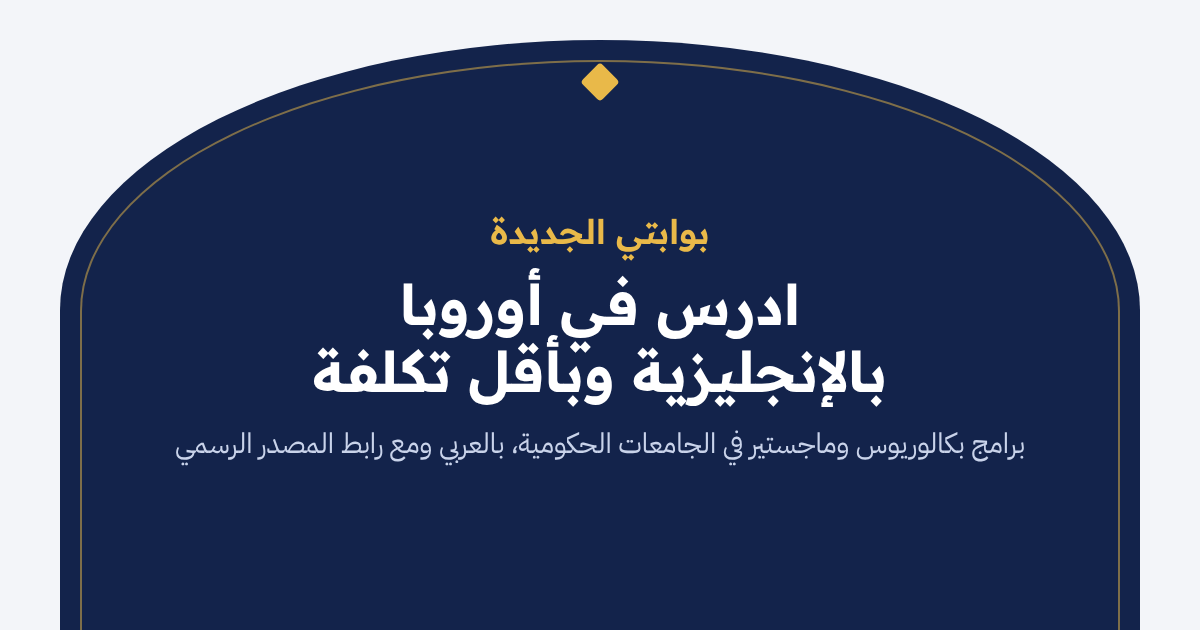
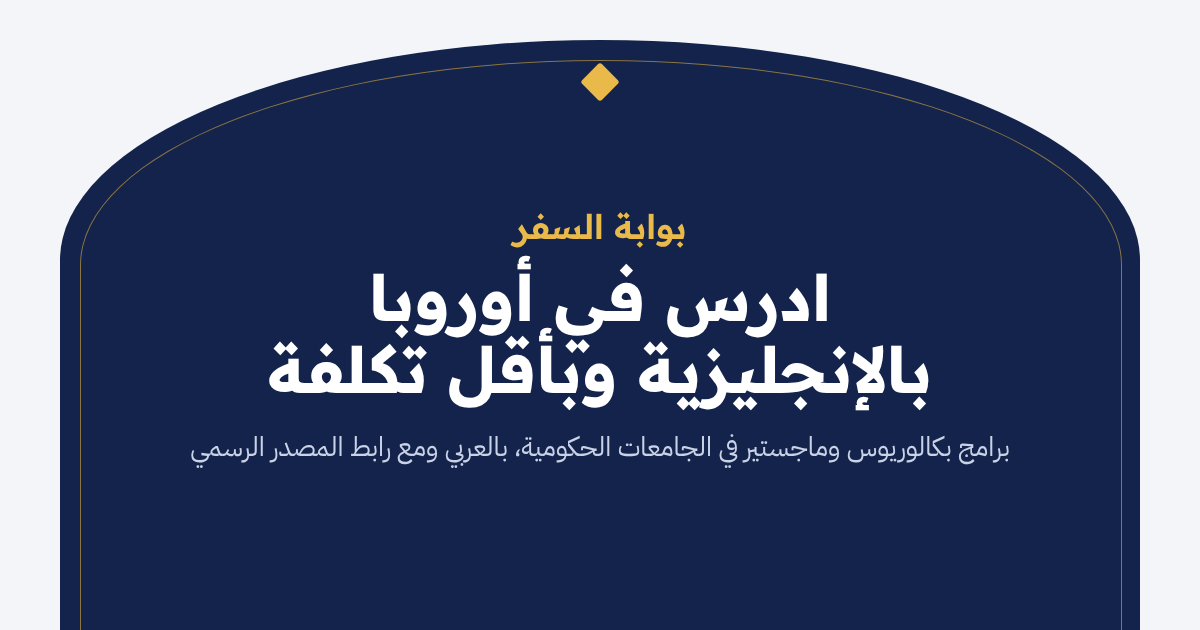
Rename the site to Bawabat Alsafar (بوابة السفر) on bawabatalsafar.com: brand, titles, links, app name, link-preview images, assistant prompts; offline page in MSA
Claude-Session: https://claude.ai/code/session_01VQ4j9VqPLdD4NFqzJinRwx

diff --git a/lib/i18n.js b/lib/i18n.js
@@ -6,10 +6,10 @@ export const T = {
   ar: {
     dir: "rtl",
     base: "",
-    brand: "بوابتي الجديدة",
+    brand: "بوابة السفر",
     beta: "نسخة تجريبية",
     switchLabel: "English",
-    title: "بوابتي الجديدة | الدراسة في أوروبا بالعربي",
+    title: "بوابة السفر | الدراسة في أوروبا بالعربي",
     description: "نرتب لك المعلومات الرسمية عن دراسة البكالوريوس والماجستير في أوروبا باللغة العربية.",
     footer:
       "هذه الخدمة لا تبيع المعلومات ولا تقدم استشارة قانونية أو هجرة. نحن نرتب المعلومات المنشورة على المواقع الرسمية للجامعات والجهات الحكومية باللغة العربية، مع رابط المصدر لكل معلومة. تأكد دائماً من المصدر الرسمي قبل اتخاذ أي قرار.",
@@ -47,7 +47,7 @@ export const T = {
     city: "المدينة:",
     myLink: "قائمتي",
     my: {
-      metaTitle: "قائمتي ومواعيدي | بوابتي الجديدة",
+      metaTitle: "قائمتي ومواعيدي | بوابة السفر",
       title: "قائمتي ومواعيد التقديم",
       lead: "البرامج والمنح التي حفظتها، مرتبة حسب أقرب موعد. أضفها إلى تقويم جوالك ليصلك تنبيه قبل الموعد بأسبوعين وقبله بثلاثة أيام.",
       save: "☆ احفظ في قائمتي",
@@ -80,7 +80,7 @@ export const T = {
     reportBtn: "وجدت خطأ؟ أبلغنا",
     reportNote: "إذا تغيّرت الرسوم أو الموعد أو أي شرط على الموقع الرسمي، أخبرنا وسنصحح المعلومة.",
     sch: {
-      metaTitle: "منح دراسية ممولة بالكامل للعرب في أوروبا | بوابتي الجديدة",
+      metaTitle: "منح دراسية ممولة بالكامل للعرب في أوروبا | بوابة السفر",
       title: "منح ممولة بالكامل للطلاب العرب",
       lead: "منح حكومية وأوروبية وجامعية للبكالوريوس والماجستير في الدول التي نغطيها. اخترنا فقط المنح التي تدفع الرسوم الدراسية وتعطي مبلغاً شهرياً للمعيشة. اختر جنسيتك لترى ما يناسبك.",
       scamTitle: "احذر من الاحتيال",
@@ -132,11 +132,11 @@ export const T = {
     },
     contactLink: "تواصل معنا",
     contact: {
-      metaTitle: "تواصل معنا | بوابتي الجديدة",
+      metaTitle: "تواصل معنا | بوابة السفر",
       title: "تواصل معنا",
       lead: "لديك سؤال عن الموقع، أو لاحظت معلومة تحتاج إلى تصحيح، أو تريد الإعلان معنا؟ راسلنا على البريد الإلكتروني.",
       button: "أرسل لنا بريداً إلكترونياً",
-      subject: "رسالة من موقع بوابتي الجديدة",
+      subject: "رسالة من موقع بوابة السفر",
       orCopy: "أو انسخ العنوان:",
       topicsTitle: "يمكنك مراسلتنا بخصوص",
       topics: [
@@ -210,10 +210,10 @@ export const T = {
   en: {
     dir: "ltr",
     base: "/en",
-    brand: "MyNewGate",
+    brand: "Bawabat Alsafar",
     beta: "Beta",
     switchLabel: "العربية",
-    title: "MyNewGate | Study in Europe, made clear",
+    title: "Bawabat Alsafar | Study in Europe, made clear",
     description: "Official information about English-taught bachelor's and master's programmes in Europe, organised in one place.",
     footer:
       "This service does not sell information and does not give legal or immigration advice. We organise information published on official university and government websites, with a source link for every item. Always check the official source before making any decision.",
@@ -251,7 +251,7 @@ export const T = {
     city: "City:",
     myLink: "My list",
     my: {
-      metaTitle: "My list and deadlines | MyNewGate",
+      metaTitle: "My list and deadlines | Bawabat Alsafar",
       title: "My list and application deadlines",
       lead: "The programmes and scholarships you saved, soonest deadline first. Add them to your phone calendar to get a reminder two weeks and three days before.",
       save: "☆ Save to my list",
@@ -284,7 +284,7 @@ export const T = {
     reportBtn: "Found an error? Tell us",
     reportNote: "If a fee, deadline or requirement changed on the official website, tell us and we will fix it.",
     sch: {
-      metaTitle: "Fully funded scholarships in Europe for Arab students | MyNewGate",
+      metaTitle: "Fully funded scholarships in Europe for Arab students | Bawabat Alsafar",
       title: "Fully funded scholarships for Arab students",
       lead: "Government, EU and university scholarships for bachelor's and master's study in the countries we cover. We only list scholarships that pay tuition and give a monthly living allowance. Choose your nationality to see what fits you.",
       scamTitle: "Watch out for scams",
@@ -336,11 +336,11 @@ export const T = {
     },
     contactLink: "Contact us",
     contact: {
-      metaTitle: "Contact us | MyNewGate",
+      metaTitle: "Contact us | Bawabat Alsafar",
       title: "Contact us",
       lead: "Have a question about the site, spotted information that needs correcting, or want to advertise with us? Email us.",
       button: "Send us an email",
-      subject: "Message from the MyNewGate website",
+      subject: "Message from the Bawabat Alsafar website",
       orCopy: "Or copy the address:",
       topicsTitle: "You can write to us about",
       topics: [

diff --git a/components/Privacy.js b/components/Privacy.js
@@ -4,11 +4,11 @@ export const PRIVACY_UPDATED = "2026-11-16";
 
 const S = {
   ar: {
-    meta: "سياسة الخصوصية | بوابتي الجديدة",
+    meta: "سياسة الخصوصية | بوابة السفر",
     title: "سياسة الخصوصية",
     updated: "آخر تحديث:",
     sections: [
-      ["من نحن", "بوابتي الجديدة (MyNewGate) موقع يرتب المعلومات الرسمية عن الدراسة في أوروبا باللغة العربية، ويتبع لعلامة «مع حاتم». للتواصل في أي شيء يخص بياناتك: business@withhatem.com"],
+      ["من نحن", "بوابة السفر (Bawabat Alsafar) موقع يرتب المعلومات الرسمية عن الدراسة في أوروبا باللغة العربية، ويتبع لعلامة «مع حاتم». للتواصل في أي شيء يخص بياناتك: business@withhatem.com"],
       ["ما الذي لا نجمعه", "لا تحتاج إلى حساب لاستخدام الموقع، فالحساب اختياري. الأسئلة التي تجيب عنها للبحث عن البرامج لا تُرسل إلى أي خادم. لا نستخدم أدوات تتبع إعلانية، ولا نضع ملفات تعريف الارتباط (الكوكيز) إلا كوكيز الدخول الضرورية إذا سجّلت الدخول بنفسك، وتجد تفاصيلها في فقرة «الحساب»."],
       ["إحصاءات الزيارات", "نستخدم Vercel Web Analytics لنعرف عدد الزيارات والصفحات الأكثر قراءة. لا تضع أي كوكيز ولا تحفظ بيانات تعرّف بك، وتميّز الزائر ببصمة مؤقتة محسوبة من الطلب تتغير كل يوم، فلا يمكن تتبعك بين الأيام أو بين المواقع. نرى أرقاماً مجمعة فقط، مثل عدد الزيارات والدولة ونوع الجهاز."],
       ["قائمتي", "البرامج والمنح التي تحفظها في «قائمتي» محفوظة في متصفحك على جهازك. إذا لم تسجّل الدخول، لا تُرسل القائمة إلينا أبداً. إذا سجّلت الدخول، تُحفظ نسخة منها في حسابك لتظهر على كل أجهزتك. رابط القائمة الذي تنسخه يحمل أرقام البرامج فقط، ولا يُرسل إلينا. تستطيع حذف القائمة بحذف العناصر منها أو بمسح بيانات المتصفح، وتُحذف نسختها من حسابك مع حذف الحساب."],
@@ -26,11 +26,11 @@ const S = {
     ],
   },
   en: {
-    meta: "Privacy policy | MyNewGate",
+    meta: "Privacy policy | Bawabat Alsafar",
     title: "Privacy policy",
     updated: "Last updated:",
     sections: [
-      ["Who we are", "MyNewGate (بوابتي الجديدة) organises official information about studying in Europe in Arabic. It is part of the \"With Hatem\" brand. For anything about your data, contact business@withhatem.com"],
+      ["Who we are", "Bawabat Alsafar (بوابة السفر) organises official information about studying in Europe in Arabic. It is part of the \"With Hatem\" brand. For anything about your data, contact business@withhatem.com"],
       ["What we don't collect", "You don't need an account to use the site; accounts are optional. The answers you give in the programme finder are not sent to any server. We don't use advertising trackers, and we set no cookies except the essential sign-in cookies if you choose to sign in, described under \"Accounts\"."],
       ["Visit statistics", "We use Vercel Web Analytics to see how many visits we get and which pages are read most. It sets no cookies and stores no data that identifies you; it tells visitors apart with a temporary hash of the request that resets every day, so you cannot be tracked across days or across websites. We only see aggregated figures such as visit counts, country and device type."],
       ["My list", "Programmes and scholarships you save to \"My list\" are stored in your browser on your device. If you are not signed in, the list is never sent to us. If you sign in, a copy is kept in your account so it shows on all your devices. The list link you copy only holds programme numbers and is not sent to us. You can delete the list by removing items or clearing your browser data, and the copy in your account is deleted with the account."],

diff --git a/components/MyList.js b/components/MyList.js
@@ -43,7 +43,7 @@ function ics(list, lang) {
       "BEGIN:VEVENT", `UID:${it.k}-${day}@mynewgate`, `DTSTAMP:${stamp}`,
       `DTSTART;VALUE=DATE:${day}`, `DTEND;VALUE=DATE:${end.toISOString().slice(0, 10).replace(/-/g, "")}`,
       `SUMMARY:${esc(`${t.icsTitle}: ${it.title}`)}`,
-      `DESCRIPTION:${esc(`${it.sub}\n${it.text}\n${d.est ? t.estNote + "\n" : ""}https://mynewgate.vercel.app${it.href}`)}`,
+      `DESCRIPTION:${esc(`${it.sub}\n${it.text}\n${d.est ? t.estNote + "\n" : ""}https://bawabatalsafar.com${it.href}`)}`,
       "BEGIN:VALARM", "ACTION:DISPLAY", `DESCRIPTION:${esc(it.title)}`, "TRIGGER:-P14D", "END:VALARM",
       "BEGIN:VALARM", "ACTION:DISPLAY", `DESCRIPTION:${esc(it.title)}`, "TRIGGER:-P3D", "END:VALARM",
       "END:VEVENT",
@@ -60,7 +60,7 @@ function ics(list, lang) {
     out.push(cur);
     return out.join("\r\n");
   };
-  return ["BEGIN:VCALENDAR", "VERSION:2.0", "PRODID:-//MyNewGate//Deadlines//EN", "CALSCALE:GREGORIAN", ...ev, "END:VCALENDAR"].join("\r\n").split("\r\n").map(fold).join("\r\n");
+  return ["BEGIN:VCALENDAR", "VERSION:2.0", "PRODID:-//BawabatAlsafar//Deadlines//EN", "CALSCALE:GREGORIAN", ...ev, "END:VCALENDAR"].join("\r\n").split("\r\n").map(fold).join("\r\n");
 }
 function download(list, lang, name) {
   const blob = new Blob([ics(list, lang)], { type: "text/calendar;charset=utf-8" });
@@ -130,7 +130,7 @@ export default function MyList({ lang }) {
           {withDates.length > 0 && (
             <div className="cal-box">
               <p>{m.calNote}</p>
-              <button className="btn gold small" onClick={() => download(withDates, lang, "mynewgate-deadlines.ics")}>{m.downloadAll}</button>
+              <button className="btn gold small" onClick={() => download(withDates, lang, "bawabatalsafar-deadlines.ics")}>{m.downloadAll}</button>
             </div>
           )}
           <div className="share-box">
@@ -139,7 +139,7 @@ export default function MyList({ lang }) {
               <input id="share-link" readOnly value={link} dir="ltr" onFocus={(e) => e.target.select()} aria-label={m.shareTitle} />
               <button className="btn small" onClick={copy}>{copied ? m.copied : m.copy}</button>
             </div>
-            <WhatsApp lang={lang} full={link} text={lang === "ar" ? "هذه البرامج والمنح التي حفظتها على بوابتي الجديدة:" : "Programmes and scholarships I saved on MyNewGate:"} />
+            <WhatsApp lang={lang} full={link} text={lang === "ar" ? "هذه البرامج والمنح التي حفظتها على بوابة السفر:" : "Programmes and scholarships I saved on Bawabat Alsafar:"} />
           </div>
           <ol className="mylist">
             {list.map((it) => {

diff --git a/lib/installText.js b/lib/installText.js
@@ -1,11 +1,11 @@
 // Text for the "install the app" page (/install).
 export const INSTALL_TEXT = {
   ar: {
-    title: "ثبّت بوابتي الجديدة على هاتفك",
+    title: "ثبّت بوابة السفر على هاتفك",
     lead: "يمكن تثبيت الموقع مثل التطبيق: أيقونة على الشاشة الرئيسية، ويفتح بملء الشاشة بدون شريط المتصفح، والصفحات التي فتحتها من قبل تعمل بدون إنترنت. مجاناً وبدون متجر تطبيقات.",
-    installed: "التطبيق مثبّت لديك بالفعل. افتحه من أيقونة «بوابتي» على الشاشة الرئيسية.",
+    installed: "التطبيق مثبّت لديك بالفعل. افتحه من أيقونة «بوابة السفر» على الشاشة الرئيسية.",
     button: "ثبّت التطبيق",
-    done: "تم! ستجد أيقونة «بوابتي» على الشاشة الرئيسية.",
+    done: "تم! ستجد أيقونة «بوابة السفر» على الشاشة الرئيسية.",
     iosTitle: "على الآيفون (Safari)",
     ios: ["افتح الموقع من متصفح Safari.", "اضغط زر المشاركة (المربع الذي يخرج منه سهم) أسفل الشاشة أو أعلاها.", "انزل واختر «إضافة إلى الشاشة الرئيسية» (Add to Home Screen).", "اضغط «إضافة». ستظهر الأيقونة على الشاشة الرئيسية."],
     iosNote: "إذا كنت تستخدم Chrome على الآيفون: اضغط زر المشاركة بجانب العنوان، ثم «إضافة إلى الشاشة الرئيسية».",
@@ -16,9 +16,9 @@ export const INSTALL_TEXT = {
     privacy: "التطبيق هو الموقع نفسه: بدون صلاحيات إضافية، وبدون حساب، وبدون إشعارات.",
   },
   en: {
-    title: "Install MyNewGate on your phone",
+    title: "Install Bawabat Alsafar on your phone",
     lead: "The site installs like an app: an icon on your home screen, full-screen without the browser bar, and pages you opened before work offline. Free, no app store.",
-    installed: "The app is already installed. Open it from the MyNewGate icon on your home screen.",
+    installed: "The app is already installed. Open it from the Bawabat Alsafar icon on your home screen.",
     button: "Install the app",
     done: "Done! You'll find the icon on your home screen.",
     iosTitle: "On iPhone (Safari)",

diff --git a/lib/institutes.js b/lib/institutes.js
@@ -91,7 +91,7 @@ export function activeAds(today = new Date().toISOString().slice(0, 10)) {
 export const ADV_TEXT = {
   ar: {
     title: "أعلن معنا",
-    lead: "بوابتي الجديدة موقع عربي يساعد الطلاب العرب على الدراسة في أوروبا. إذا كان لديك معهد لغة أو مركز تحضير لامتحانات الإنجليزية، اعرض معهدك أمام طلاب يحتاجون إلى تعلم اللغة قبل السفر.",
+    lead: "بوابة السفر موقع عربي يساعد الطلاب العرب على الدراسة في أوروبا. إذا كان لديك معهد لغة أو مركز تحضير لامتحانات الإنجليزية، اعرض معهدك أمام طلاب يحتاجون إلى تعلم اللغة قبل السفر.",
     whereTitle: "أين سيظهر إعلانك؟",
     where: [
       "في دليل معاهد اللغة، في قسم اللغة التي تدرّسها (الإنجليزية، الألمانية، الإسبانية، الإيطالية، أو غيرها).",
@@ -116,12 +116,12 @@ export const ADV_TEXT = {
     rulesTitle: "قواعد الإعلان",
     cta: "تواصل معنا للإعلان",
     orMail: "أو راسلنا على",
-    mailSubject: "إعلان معهد لغة على بوابتي الجديدة",
+    mailSubject: "إعلان معهد لغة على بوابة السفر",
     see: "اطّلع على دليل معاهد اللغة",
   },
   en: {
     title: "Advertise with us",
-    lead: "MyNewGate is an Arabic website that helps Arab students study in Europe. If you run a language institute or an English test preparation centre, show it to students who need to learn a language before they travel.",
+    lead: "Bawabat Alsafar is an Arabic website that helps Arab students study in Europe. If you run a language institute or an English test preparation centre, show it to students who need to learn a language before they travel.",
     whereTitle: "Where will your ad appear?",
     where: [
       "In the language institutes directory, in the section for the language you teach (English, German, Spanish, Italian or others).",
@@ -146,7 +146,7 @@ export const ADV_TEXT = {
     rulesTitle: "Advertising rules",
     cta: "Contact us to advertise",
     orMail: "Or email",
-    mailSubject: "Language institute ad on MyNewGate",
+    mailSubject: "Language institute ad on Bawabat Alsafar",
     see: "See the language institutes directory",
   },
 };

diff --git a/components/Planner.js b/components/Planner.js
@@ -19,7 +19,7 @@ function defaultStart(dl) {
 function icsFile(events, title) {
   const esc = (s) => String(s).replace(/\\/g, "\\\\").replace(/[,;]/g, (m) => "\\" + m).replace(/\n/g, "\\n");
   const stamp = new Date().toISOString().replace(/[-:]/g, "").slice(0, 15) + "Z";
-  const lines = ["BEGIN:VCALENDAR", "VERSION:2.0", "PRODID:-//MyNewGate//Planner//EN", "CALSCALE:GREGORIAN"];
+  const lines = ["BEGIN:VCALENDAR", "VERSION:2.0", "PRODID:-//BawabatAlsafar//Planner//EN", "CALSCALE:GREGORIAN"];
   for (const e of events) {
     const day = e.date.replace(/-/g, "");
     const end = new Date(e.date + "T12:00:00Z"); end.setUTCDate(end.getUTCDate() + 1);
@@ -85,12 +85,12 @@ export default function Planner({ lang }) {
       .map((x) => ({ ...x, date: minusWeeks(x.from === "deadline" ? dl : st, x.weeks) }));
   }, [dl, start]);
 
-  const url = prog ? `https://mynewgate.vercel.app${t.base}/programme/${prog.id}` : "";
+  const url = prog ? `https://bawabatalsafar.com${t.base}/programme/${prog.id}` : "";
   const download = () => {
     const ev = steps.filter((x) => x.date >= todayIso()).map((x) => ({ key: x.key, date: x.date, title: s.steps[x.key][0], note: `${prog?.name || ""} - ${prog?.university || ""}\n${s.steps[x.key][1]}`, url }));
     const blob = new Blob([icsFile(ev, s.icsTitle)], { type: "text/calendar;charset=utf-8" });
     const a = document.createElement("a");
-    a.href = URL.createObjectURL(blob); a.download = "mynewgate-plan.ics"; a.click();
+    a.href = URL.createObjectURL(blob); a.download = "bawabatalsafar-plan.ics"; a.click();
     setTimeout(() => URL.revokeObjectURL(a.href), 1000);
   };
 

diff --git a/lib/plannerText.js b/lib/plannerText.js
@@ -37,7 +37,7 @@ export const PL_TEXT = {
       start: ["بداية الدراسة", "التاريخ الذي اخترته أعلاه."],
     },
     ics: "أضف الخطة لتقويمي (.ics)", print: "اطبع الخطة",
-    icsTitle: "بوابتي الجديدة",
+    icsTitle: "بوابة السفر",
     note: "المواعيد في هذه الخطة اقتراحات منا لترتيب وقتك، وليست مواعيد رسمية. الموعد الرسمي الوحيد هو موعد التقديم المنشور في صفحة البرنامج، فتأكد منه قبل أي خطوة.",
     open: "صفحة البرنامج", loading: "جارٍ التحميل…", failed: "تعذر تحميل البيانات. أعد تحميل الصفحة.",
   },
@@ -62,7 +62,7 @@ export const PL_TEXT = {
       start: ["Studies start", "The date you chose above."],
     },
     ics: "Add the plan to my calendar (.ics)", print: "Print the plan",
-    icsTitle: "MyNewGate",
+    icsTitle: "Bawabat Alsafar",
     note: "The dates in this plan are our suggestions to organise your time, not official dates. The only official date is the application deadline published on the programme page, so confirm it before you act.",
     open: "Programme page", loading: "Loading…", failed: "Couldn't load the data. Reload the page.",
   },

diff --git a/lib/calendar.js b/lib/calendar.js
@@ -3,7 +3,7 @@ import deadlines from "./deadlines.json";
 import { SCHOLARSHIPS } from "./scholarships";
 import { T } from "./i18n";
 
-const SITE = "https://mynewgate.vercel.app";
+const SITE = "https://bawabatalsafar.com";
 export const todayIso = () => new Date().toISOString().slice(0, 10);
 const nextDay = (iso) => { const d = new Date(iso + "T12:00:00Z"); d.setUTCDate(d.getUTCDate() + 1); return d.toISOString().slice(0, 10); };
 
@@ -30,7 +30,7 @@ export function icsText(item, lang, uidKey) {
   const t = T[lang].my;
   const esc = (s) => String(s).replace(/\\/g, "\\\\").replace(/[,;]/g, (m) => "\\" + m).replace(/\n/g, "\\n");
   const stamp = new Date().toISOString().replace(/[-:]/g, "").slice(0, 15) + "Z";
-  const lines = ["BEGIN:VCALENDAR", "VERSION:2.0", "PRODID:-//MyNewGate//Deadlines//EN", "CALSCALE:GREGORIAN", "METHOD:PUBLISH"];
+  const lines = ["BEGIN:VCALENDAR", "VERSION:2.0", "PRODID:-//BawabatAlsafar//Deadlines//EN", "CALSCALE:GREGORIAN", "METHOD:PUBLISH"];
   for (const d of item.dates) {
     const day = d.d.replace(/-/g, "");
     lines.push("BEGIN:VEVENT", `UID:${uidKey}-${day}@mynewgate`, `DTSTAMP:${stamp}`,

diff --git a/lib/assistant/prompt.js b/lib/assistant/prompt.js
@@ -1,5 +1,5 @@
 // The assistant's instructions. Facts come only from the site documents passed in CONTEXT.
-export const SYSTEM = `You are the assistant of MyNewGate (بوابتي الجديدة), a website that organises official information about English-taught university programmes, scholarships, visas and student life in 24 European countries, for Arab students.
+export const SYSTEM = `You are the assistant of Bawabat Alsafar (بوابة السفر), a website that organises official information about English-taught university programmes, scholarships, visas and student life in 24 European countries, for Arab students.
 
 Rules you must always follow:
 1. Use ONLY the CONTEXT documents given with the question for any fact (fees, deadlines, requirements, amounts of money, visa rules, scholarships, test prices, documents). Never add facts from your own knowledge. If the CONTEXT does not answer the question, set found=false, say in one or two sentences that this is not on our site, and point to the closest page in the CONTEXT if there is one.

diff --git a/public/offline.html b/public/offline.html
@@ -1,6 +1,6 @@
 <!doctype html>
 <html lang="ar" dir="rtl">
-<head><meta charset="utf-8"><meta name="viewport" content="width=device-width,initial-scale=1"><title>بوابتي الجديدة | مفيش إنترنت</title>
+<head><meta charset="utf-8"><meta name="viewport" content="width=device-width,initial-scale=1"><title>بوابة السفر | لا يوجد اتصال بالإنترنت</title>
 <style>body{margin:0;font-family:system-ui,sans-serif;background:#f3f5f9;color:#13234b;display:grid;place-items:center;min-height:100vh;text-align:center;padding:24px;box-sizing:border-box}img{width:72px;height:72px;border-radius:16px}h1{font-size:1.4rem}p{max-width:30em;line-height:1.7}a{color:#13234b;font-weight:700}</style></head>
 <body><main><img src="/icon-192.png?v=2" alt=""><h1>مفيش اتصال بالإنترنت دلوقتي</h1>
 <p>الصفحات اللي فتحتها قبل كده بتشتغل من غير إنترنت. ارجع للصفحة اللي فاتت أو جرب تاني لما النت يرجع.</p>

diff --git a/lib/tools.js b/lib/tools.js
@@ -99,6 +99,6 @@ export const TOOLS = {
 };
 
 export const TOOLS_TEXT = {
-  ar: { menu: "الأدوات", title: "أدوات تساعدك على التقديم", lead: "كل أدوات بوابتي الجديدة في مكان واحد، مرتبة حسب خطوات رحلتك.", homeTitle: "أدوات تساعدك", all: "كل الأدوات" },
-  en: { menu: "Tools", title: "Tools to help you apply", lead: "All of MyNewGate's tools in one place, organised by the steps of your journey.", homeTitle: "Tools that help", all: "All tools" },
+  ar: { menu: "الأدوات", title: "أدوات تساعدك على التقديم", lead: "كل أدوات بوابة السفر في مكان واحد، مرتبة حسب خطوات رحلتك.", homeTitle: "أدوات تساعدك", all: "كل الأدوات" },
+  en: { menu: "Tools", title: "Tools to help you apply", lead: "All of Bawabat Alsafar's tools in one place, organised by the steps of your journey.", homeTitle: "Tools that help", all: "All tools" },
 };

diff --git a/lib/site.js b/lib/site.js
@@ -1,7 +1,7 @@
 import { T } from "./i18n";
 
 // Public address of the site. Set NEXT_PUBLIC_SITE_URL in Vercel when the domain changes.
-export const SITE_URL = (process.env.NEXT_PUBLIC_SITE_URL || "https://mynewgate.vercel.app").replace(/\/$/, "");
+export const SITE_URL = (process.env.NEXT_PUBLIC_SITE_URL || "https://bawabatalsafar.com").replace(/\/$/, "");
 
 // Metadata for one page: title, description, link previews (WhatsApp, Facebook, X) and the other-language link.
 // path is the Arabic path without the /en prefix, e.g. "/country/de".
@@ -9,7 +9,7 @@ export function pageMeta(lang, { title, description, path = "/", image } = {}) {
   const t = T[lang];
   const desc = description || t.description;
   const url = lang === "ar" ? path : `/en${path === "/" ? "" : path}`;
-  const img = image || `/og-${lang}.png`;
+  const img = image || `/og-${lang}.png?v=2`;
   return {
     ...(title ? { title } : {}),
     description: desc,
